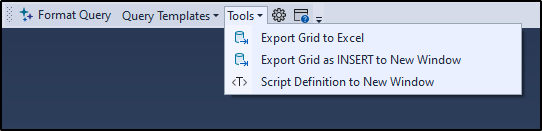
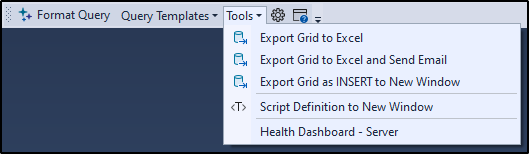
add descriptions

diff --git a/README.md b/README.md
@@ -12,10 +12,12 @@ It streamlines daily routine tasks, making database management more efficient an
 So far we've developed these features:
 
 - **Format Query**: Beautify your SQL scripts with Microsoft internal TSQL parser, making them more readable and maintainable.
+- **Quick Query Templates**: Access a collection of query templates for common tasks, saving time and effort on routine queries.
 - **Export Grid to Excel**: Export result from the grid view directly into Excel file for further analysis or reporting.
+- **Export Grid to Excel and Send Email**: Similar to the previous feature, but with the added ability to send the file via email.
 - **Export Grid as Inserts**: Convert your grid result into insert statements.
 - **Script Selected Object Definition**: Quickly generate scripts for the definition of selected objects directly from the selected query text.
-- **Quick Query Templates**: Access a collection of query templates for common tasks, saving time and effort on routine queries.
+- **Health Dashboard - Server**: I am experimenting with the idea of displaying basic server health metrics in a single window.
 
 ## Query Templates
 
